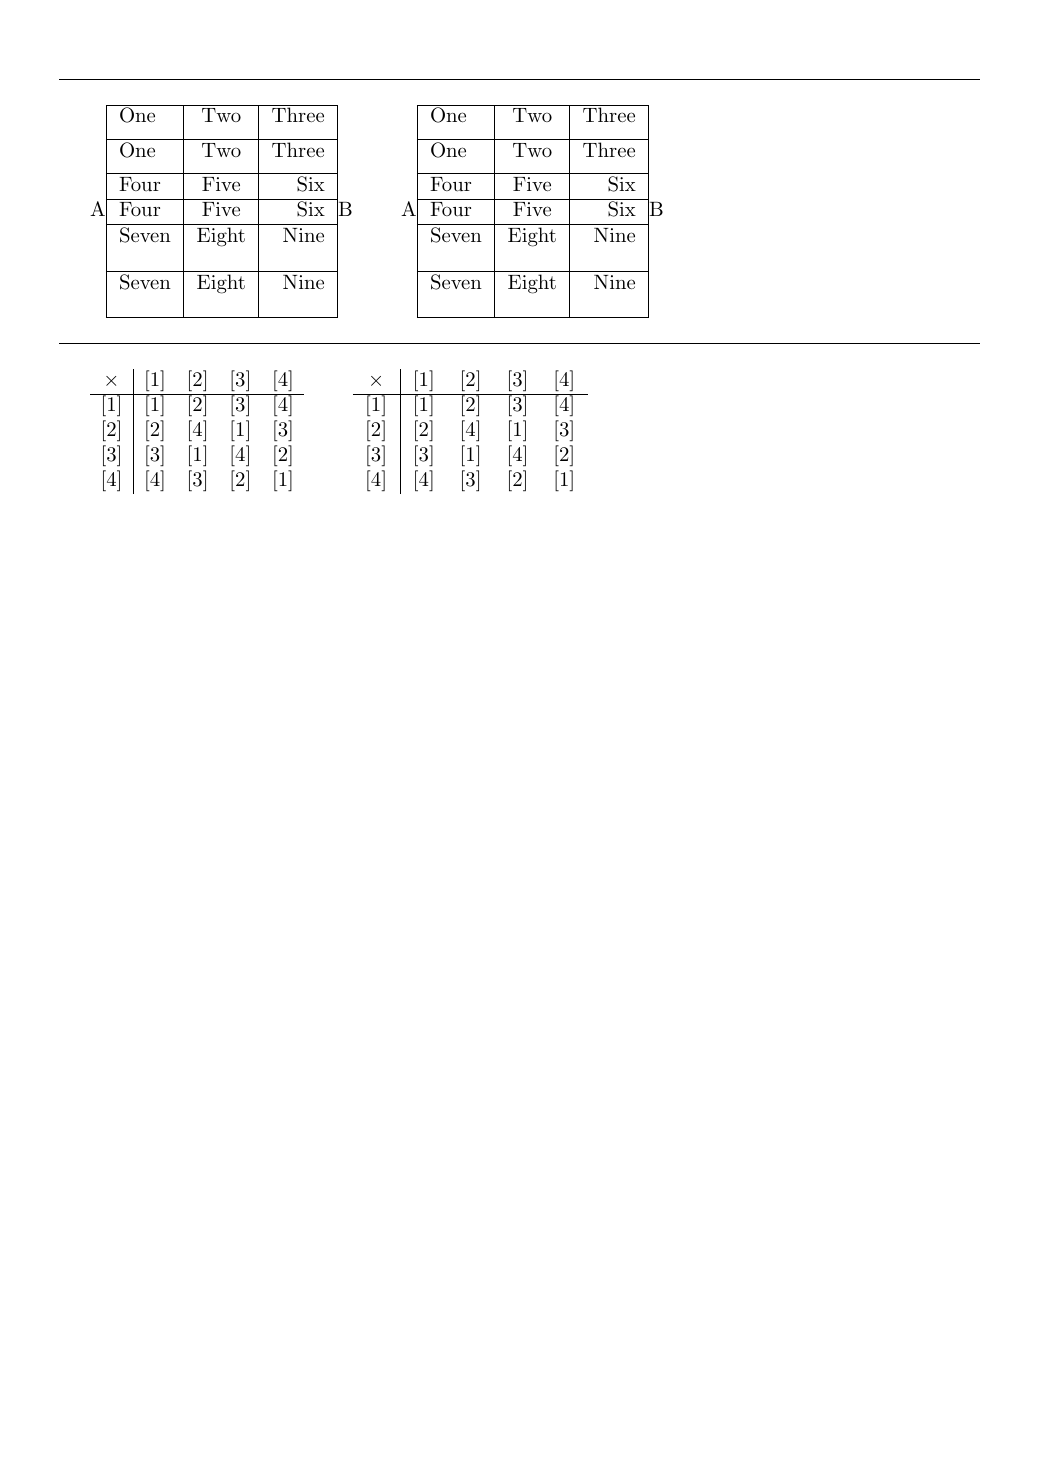
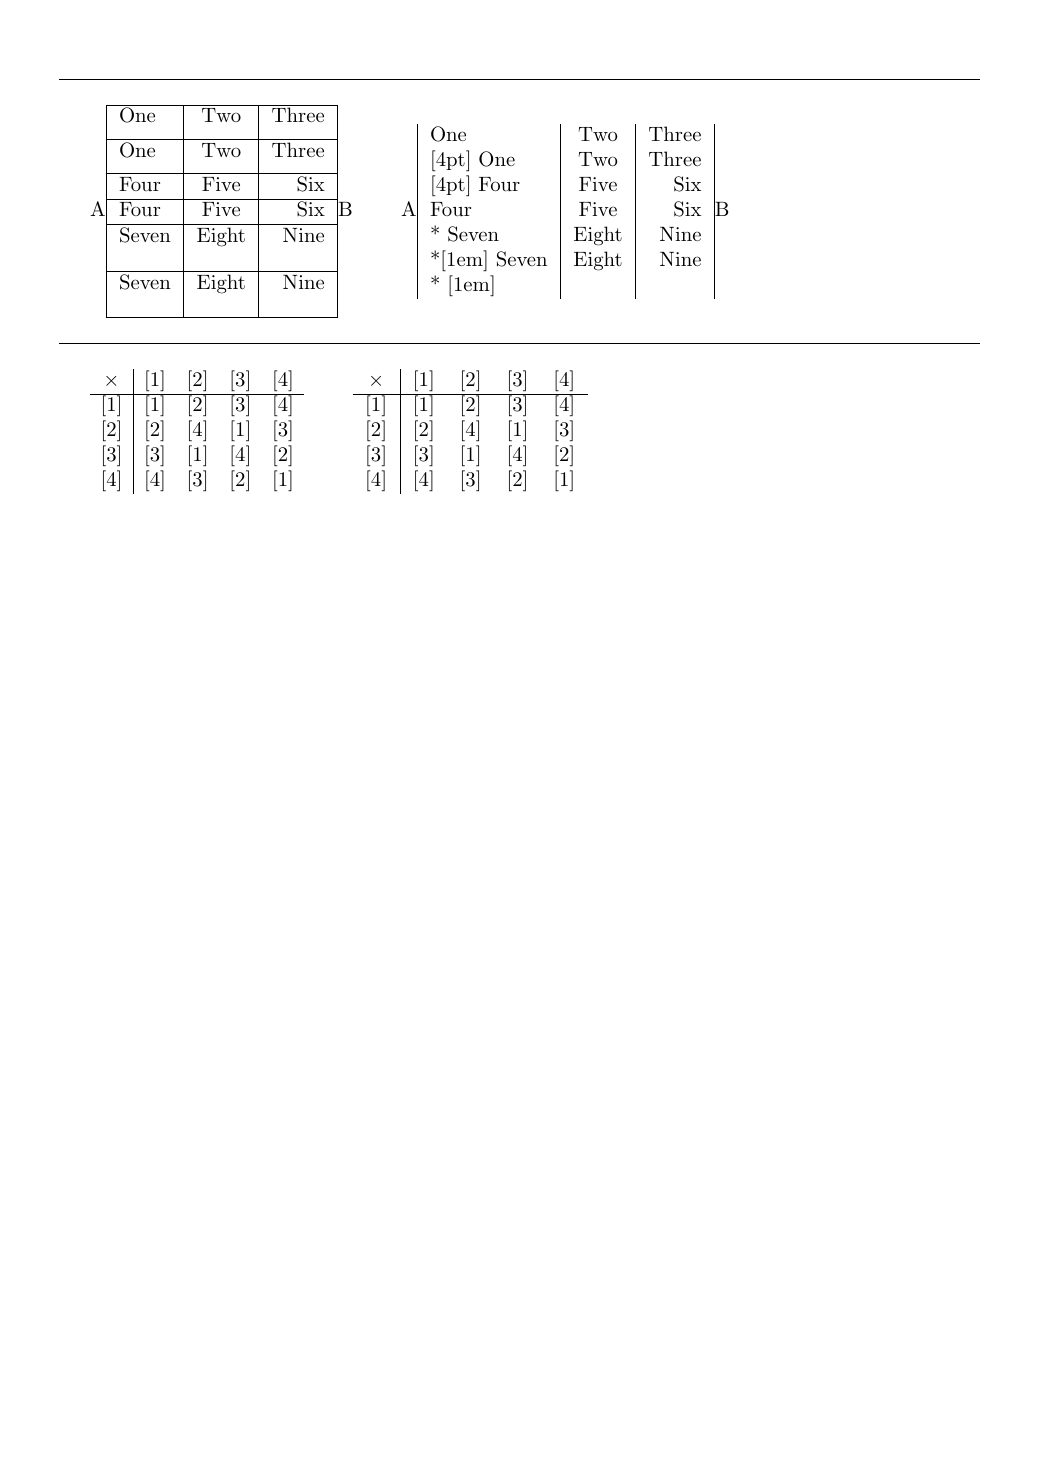
update test files (#501, #526)

Changed region(s): [[0.4, 0.0623, 0.7077, 0.218]]

diff --git a/testfiles/library-009.tex b/testfiles/library-009.tex
@@ -13,7 +13,7 @@
 \BEGINTEST{siunitx: testing multiline cells}%#90
 \centering
 \begin{tblr}{colspec=lSS,hlines,vlines}
-{two line \\ column header} & {{{column header}}} & {{{two line \\ column header}}} \\
+{two line \\ column header} & {column header} & {two line \\ column header} \\
 \end{tblr}
 \ENDTEST
 
@@ -22,7 +22,7 @@
 \BEGINTEST{testing multiline cells with three pairs of braces}%#90
 \centering
 \begin{tblr}{hlines,vlines}
-{{{one line cell}}} & {{{two line \\ text}}} \\
+{one line cell} & {two line \\ text} \\
 \end{tblr}
 \ENDTEST
 

diff --git a/testfiles/rowcol-003.tex b/testfiles/rowcol-003.tex
@@ -26,19 +26,19 @@ Seven & Eight &  Nine \\  * [1em]
 \end{tabular}B
 \qquad
 A\begin{tblr}{|l|c|r|}
-\hline
+%\hline
 One   &  Two  & Three \\ [4pt]
-\hline
+%\hline %error from v2025A
 One   &  Two  & Three \\  [4pt]
-\hline
+%\hline %error from v2025A
 Four  & Five  &   Six \\
-\hline
+%\hline
 Four  & Five  &   Six \\  *
-\hline
+%\hline %error from v2025A
 Seven & Eight &  Nine \\  *[1em]
-\hline
+%\hline %error from v2025A
 Seven & Eight &  Nine \\  * [1em]
-\hline
+%\hline %error from v2025A
 \end{tblr}B
 \ENDTEST
 
